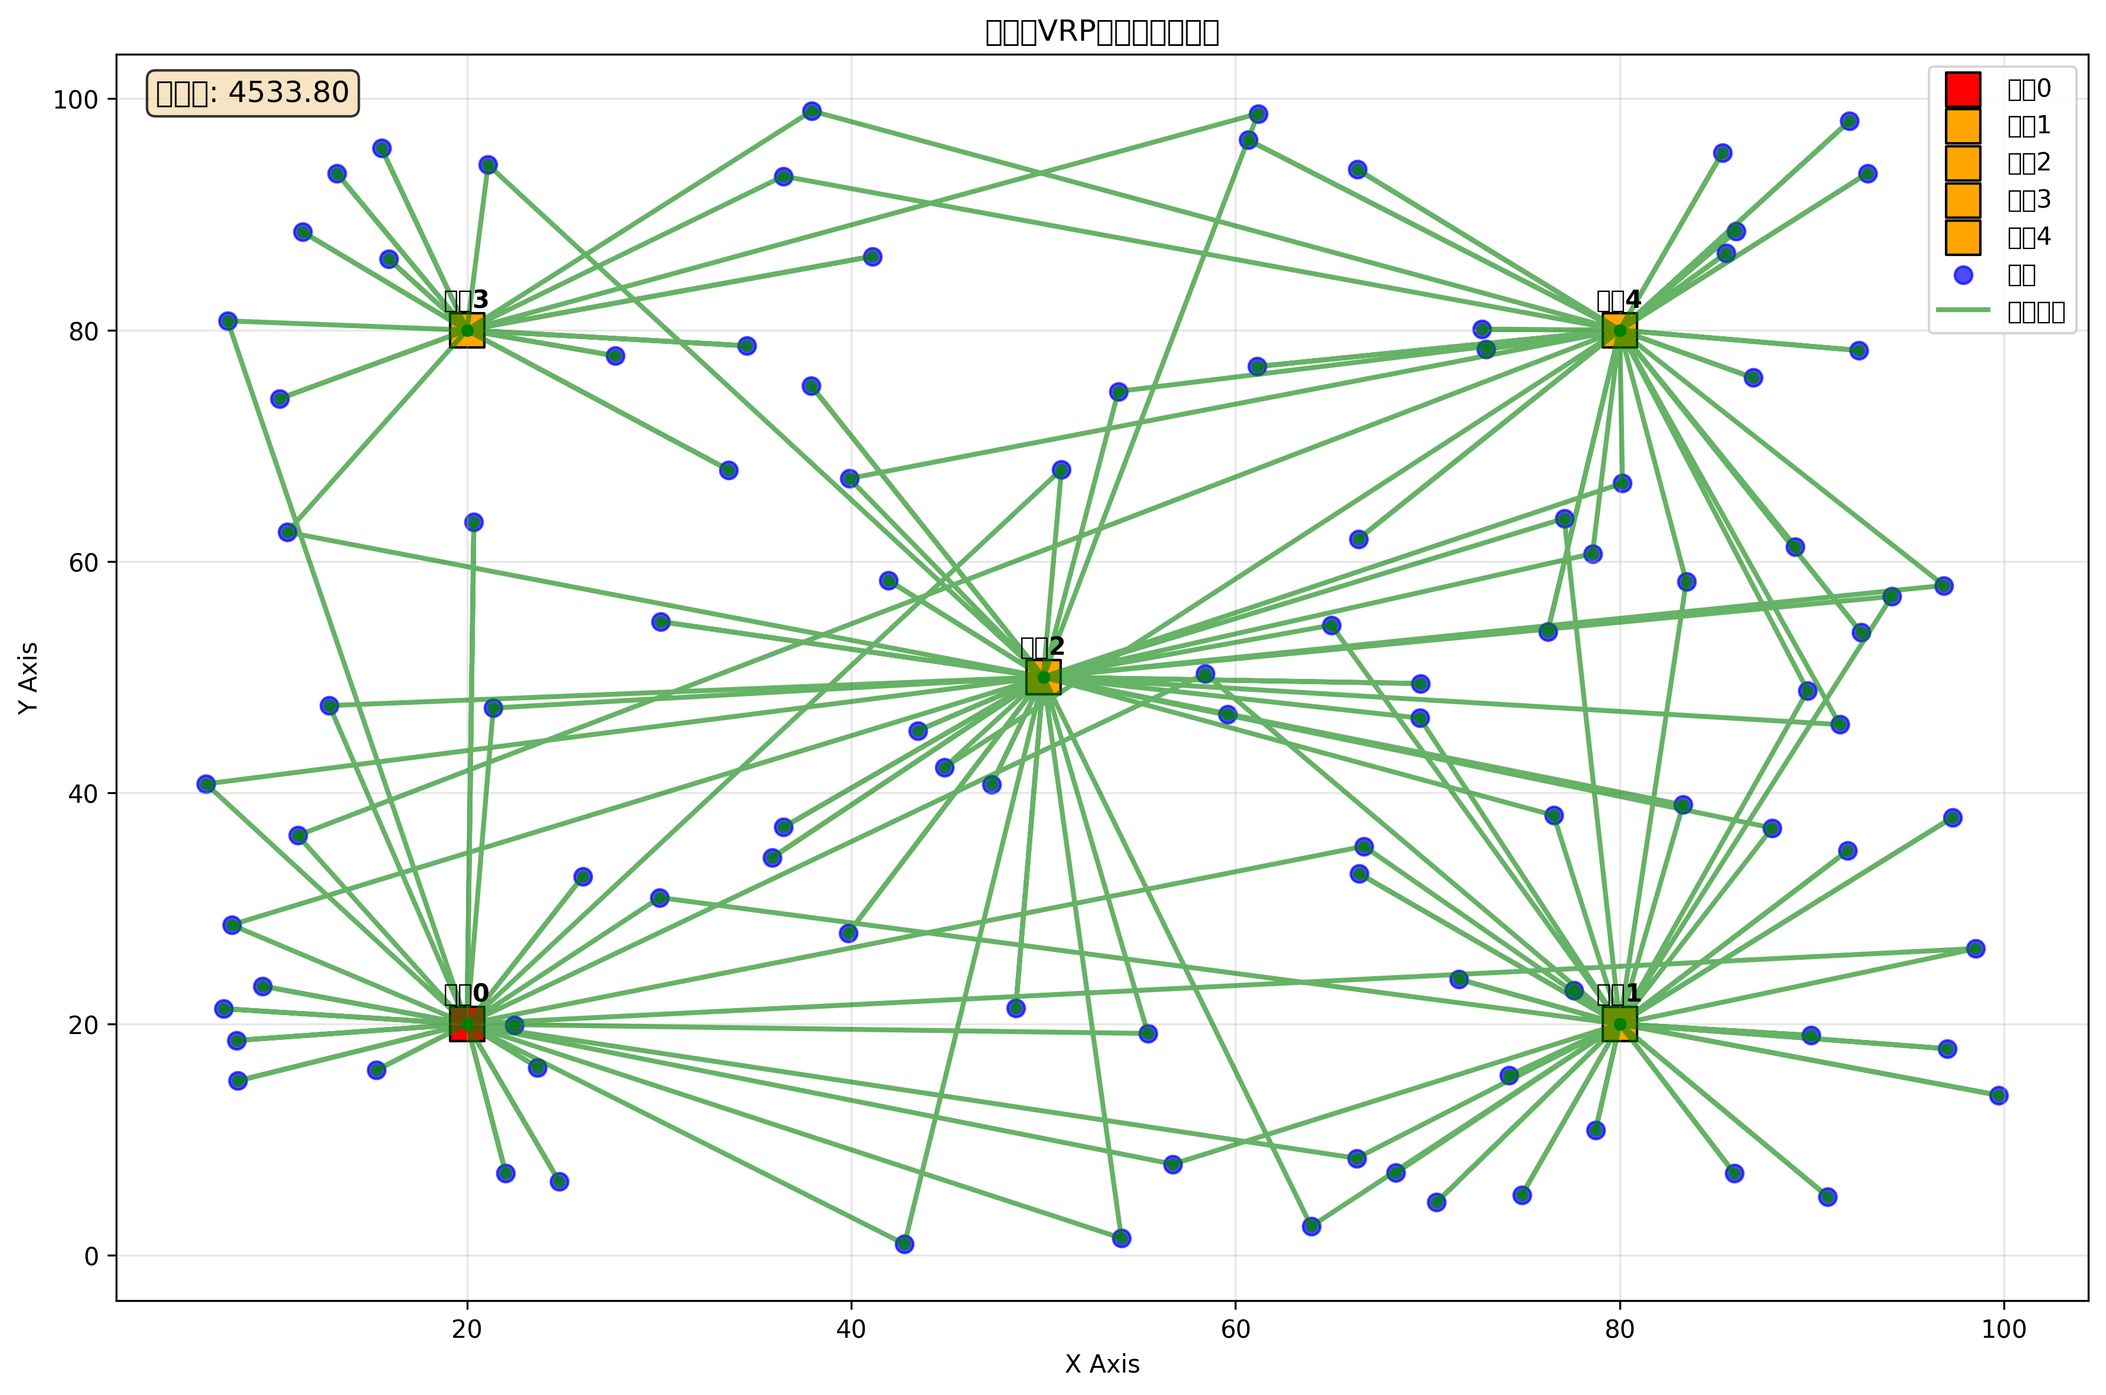
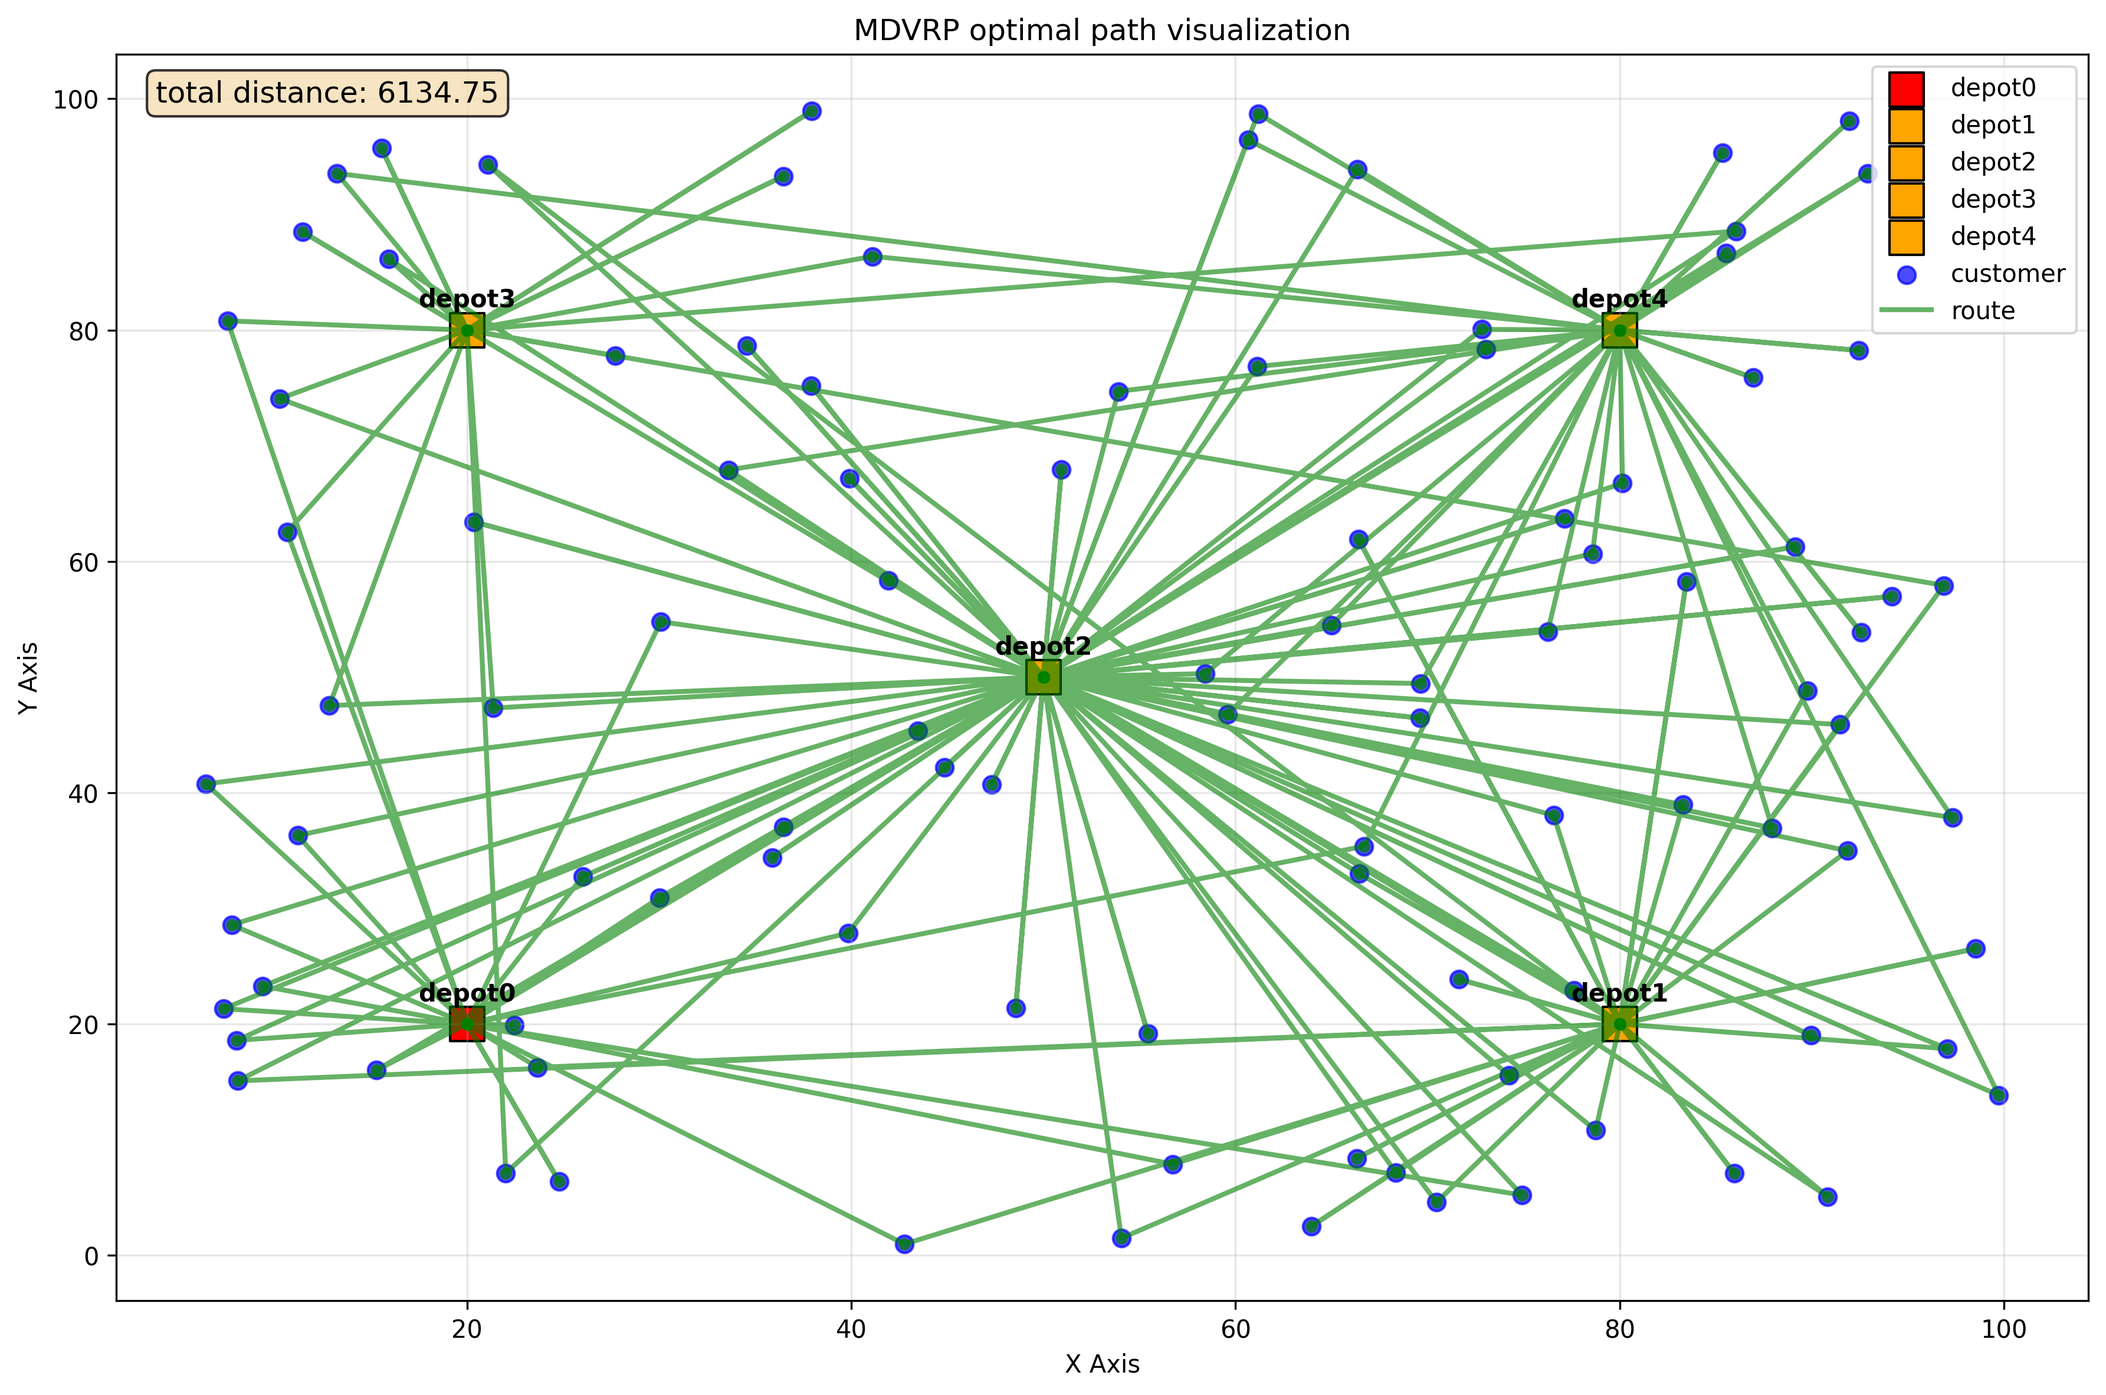
10.15 3：13

diff --git a/ass1.py b/ass1.py
@@ -45,11 +45,8 @@ class VRP_GA_Solver:
         n_customers = len(self.customers)
 
         def create_individual():
-            # 创建客户访问顺序的随机排列
-            customer_order = random.sample(range(n_customers), n_customers)
-            # 为每个客户随机分配仓库（0-4）
-            depot_assignments = [random.randint(0, 4) for _ in range(n_customers)]
-            # 组合成完整个体
+            customer_order = random.sample(range(n_customers), n_customers)     #客户顺序
+            depot_assignments = [random.randint(0, 4) for _ in range(n_customers)]      #仓库顺序
             return customer_order + depot_assignments
 
         self.toolbox.register("individual", tools.initIterate, creator.Individual, create_individual)
@@ -59,14 +56,11 @@ class VRP_GA_Solver:
         self.toolbox.register("mate", self._custom_crossover)
         self.toolbox.register("mutate", self._custom_mutation)
 
+    #适应度计算
     def _evaluate_route(self, individual):
-        """
-        多仓库单车辆VRP适应度评估
-        车辆从depot0出发，访问分配给各个仓库的客户，最后返回depot0
-        """
-        n_customers = len(self.customers)
 
-        # 解析个体：前半部分是客户顺序，后半部分是仓库分配
+        n_customers = len(self.customers)
+        # 一条染色体：前n客户顺序，后n仓库分配
         customer_order = individual[:n_customers]
         depot_assignments = individual[n_customers:]
 
@@ -146,72 +140,72 @@ class VRP_GA_Solver:
 
         return individual,
 
-    def analyze_route(self, individual):
-        """分析多仓库路径"""
-        n_customers = len(self.customers)
-        customer_order = individual[:n_customers]
-        depot_assignments = individual[n_customers:]
-
-        sub_routes = []
-        current_route = []
-        total_distance = 0
-        current_load = 0
-        depot_0_idx = self.depot_indices[0]
-        current_position = depot_0_idx
-
-        print("\n仓库分配情况:")
-        for depot_no in range(5):
-            assigned_customers = [
-                self.customers.iloc[customer_order[i]]['NO']
-                for i in range(n_customers)
-                if depot_assignments[i] == depot_no
-            ]
-            print(f"  仓库{depot_no}: {len(assigned_customers)}个客户 - {assigned_customers}")
-
-        # 从主仓库出发
-        current_route.append(f"仓库0")
-
-        for i, customer_idx in enumerate(customer_order):
-            assigned_depot_no = depot_assignments[customer_idx]
-            assigned_depot_idx = self.depot_indices[assigned_depot_no]
-            customer_no = self.customers.iloc[customer_idx]['NO']
-            customer_demand = self.customers.iloc[customer_idx]['DEMAND']
-
-            if current_load + customer_demand > self.max_capacity:
-                # 返回主仓库
-                total_distance += self.distance_matrix[current_position][depot_0_idx]
-                current_route.append("返回仓库0")
-                sub_routes.append({
-                    'customers': current_route.copy(),
-                    'load': current_load,
-                    'distance': total_distance
-                })
-                current_route = ["仓库0"]
-                current_load = 0
-                current_position = depot_0_idx
-
-            # 前往分配的仓库（如果需要）
-            if current_position != assigned_depot_idx and current_position != customer_idx:
-                total_distance += self.distance_matrix[current_position][assigned_depot_idx]
-                current_route.append(f"经过仓库{assigned_depot_no}")
-                current_position = assigned_depot_idx
-
-            # 访问客户
-            total_distance += self.distance_matrix[current_position][customer_idx]
-            current_load += customer_demand
-            current_route.append(f"客户{customer_no}(需求:{customer_demand})")
-            current_position = customer_idx
-
-        # 最后返回主仓库
-        total_distance += self.distance_matrix[current_position][depot_0_idx]
-        current_route.append("返回仓库0")
-        sub_routes.append({
-            'customers': current_route,
-            'load': current_load,
-            'distance': total_distance
-        })
-
-        return sub_routes, total_distance
+    # def analyze_route(self, individual):
+    #     """分析多仓库路径"""
+    #     n_customers = len(self.customers)
+    #     customer_order = individual[:n_customers]
+    #     depot_assignments = individual[n_customers:]
+    #
+    #     sub_routes = []
+    #     current_route = []
+    #     total_distance = 0
+    #     current_load = 0
+    #     depot_0_idx = self.depot_indices[0]
+    #     current_position = depot_0_idx
+    #
+    #     print("\n仓库分配情况:")
+    #     for depot_no in range(5):
+    #         assigned_customers = [
+    #             self.customers.iloc[customer_order[i]]['NO']
+    #             for i in range(n_customers)
+    #             if depot_assignments[i] == depot_no
+    #         ]
+    #         print(f"  仓库{depot_no}: {len(assigned_customers)}个客户 - {assigned_customers}")
+    #
+    #     # 从主仓库出发
+    #     current_route.append(f"仓库0")
+    #
+    #     for i, customer_idx in enumerate(customer_order):
+    #         assigned_depot_no = depot_assignments[customer_idx]
+    #         assigned_depot_idx = self.depot_indices[assigned_depot_no]
+    #         customer_no = self.customers.iloc[customer_idx]['NO']
+    #         customer_demand = self.customers.iloc[customer_idx]['DEMAND']
+    #
+    #         if current_load + customer_demand > self.max_capacity:
+    #             # 返回主仓库
+    #             total_distance += self.distance_matrix[current_position][depot_0_idx]
+    #             current_route.append("返回仓库0")
+    #             sub_routes.append({
+    #                 'customers': current_route.copy(),
+    #                 'load': current_load,
+    #                 'distance': total_distance
+    #             })
+    #             current_route = ["仓库0"]
+    #             current_load = 0
+    #             current_position = depot_0_idx
+    #
+    #         # 前往分配的仓库（如果需要）
+    #         if current_position != assigned_depot_idx and current_position != customer_idx:
+    #             total_distance += self.distance_matrix[current_position][assigned_depot_idx]
+    #             current_route.append(f"经过仓库{assigned_depot_no}")
+    #             current_position = assigned_depot_idx
+    #
+    #         # 访问客户
+    #         total_distance += self.distance_matrix[current_position][customer_idx]
+    #         current_load += customer_demand
+    #         current_route.append(f"客户{customer_no}(需求:{customer_demand})")
+    #         current_position = customer_idx
+    #
+    #     # 最后返回主仓库
+    #     total_distance += self.distance_matrix[current_position][depot_0_idx]
+    #     current_route.append("返回仓库0")
+    #     sub_routes.append({
+    #         'customers': current_route,
+    #         'load': current_load,
+    #         'distance': total_distance
+    #     })
+    #
+    #     return sub_routes, total_distance
 
     def solve(self):
         print("----开始求解ass1:VRP----")
@@ -311,28 +305,28 @@ def main():
     solver.plot_evolution(fitness_history)
 
     # 打印详细路径信息
-    print("\n" + "=" * 50)
-    print("最优路径详情:")
-    print("=" * 50)
+    # print("\n" + "=" * 50)
+    # print("最优路径详情:")
+    # print("=" * 50)
 
     # 使用分析方法
-    sub_routes, total_distance = solver.analyze_route(best_solution)
+    # sub_routes, total_distance = solver.analyze_route(best_solution)
 
-    print(f"总行驶距离: {total_distance:.2f}")
-    print(f"总行程数: {len(sub_routes)}")
-    print()
+    # print(f"总行驶距离: {total_distance:.2f}")
+    # print(f"总行程数: {len(sub_routes)}")
+    # print()
 
     # 启用详细输出
-    for i, route_info in enumerate(sub_routes, 1):
-        customers = route_info['customers']
-        load = route_info['load']
-        distance = route_info['distance']
-
-        print(f"行程 {i}:")
-        print(f"  路径: {' -> '.join(customers)}")
-        print(f"  负载: {load}")
-        print(f"  距离: {distance:.2f}")
-        print()
+    # for i, route_info in enumerate(sub_routes, 1):
+    #     customers = route_info['customers']
+    #     load = route_info['load']
+    #     distance = route_info['distance']
+    #
+    #     print(f"行程 {i}:")
+    #     print(f"  路径: {' -> '.join(customers)}")
+    #     print(f"  负载: {load}")
+    #     print(f"  距离: {distance:.2f}")
+    #     print()
 
 
 if __name__ == "__main__":

diff --git a/ass2.py b/ass2.py
@@ -43,13 +43,11 @@ class VRP_GA_Solver:
 
         n_customers = len(self.customers)
 
+        #染色体编码方式
         def create_individual():
-            # 创建客户访问顺序的随机排列
-            customer_order = random.sample(range(n_customers), n_customers)
-            # 为每个客户随机分配仓库（0-4）
-            depot_assignments = [random.randint(0, 4) for _ in range(n_customers)]
-            # 组合成完整个体
-            return customer_order + depot_assignments
+            customer_order = random.sample(range(n_customers), n_customers)     #客户顺序
+            depot_assignments = [random.randint(0, 4) for _ in range(n_customers)]  #n个仓库顺序
+            return customer_order + depot_assignments #前n为客户顺序，后n为仓库顺序
 
         self.toolbox.register("individual", tools.initIterate, creator.Individual, create_individual)
         self.toolbox.register("population", tools.initRepeat, list, self.toolbox.individual)
@@ -58,16 +56,11 @@ class VRP_GA_Solver:
         self.toolbox.register("mate", self._custom_crossover)
         self.toolbox.register("mutate", self._custom_mutation)
 
-    def _generate_stochastic_demand(self, mean_demand):
-        """
-        生成随机需求
-        N(mean_demand, 0.2 * mean_demand)，截断为正整数
-        """
-        std_dev = 0.2 * mean_demand
-        # 生成正态分布随机数
-        stochastic_demand = np.random.normal(mean_demand, std_dev)
-        # 截断为正整数
-        stochastic_demand = max(1, int(round(stochastic_demand)))
+    def _generate_demand(self, mean_demand):
+        #-----正态分布范围内生成需求-------
+        std_dev = 0.2 * mean_demand     #标准差
+        random_demand = np.random.normal(mean_demand, std_dev)      # 生成正态分布随机数
+        stochastic_demand = max(1, int(round(random_demand)))       # 截断为正整数
         return stochastic_demand
 
 
@@ -88,7 +81,7 @@ class VRP_GA_Solver:
         for i, customer_idx in enumerate(customer_order):
             # 生成随机需求
             mean_demand = self.customers.iloc[customer_idx]['DEMAND']
-            actual_demand = self._generate_stochastic_demand(mean_demand)
+            actual_demand = self._generate_demand(mean_demand)
 
             assigned_depot_no = depot_assignments[customer_idx]
             assigned_depot_idx = self.depot_indices[assigned_depot_no]
@@ -132,51 +125,6 @@ class VRP_GA_Solver:
             if is_feasible:
                 feasible_count += 1
 
-    # def _evaluate_route(self, individual):
-    #     """
-    #     多仓库单车辆VRP适应度评估
-    #     车辆从depot0出发，访问分配给各个仓库的客户，最后返回depot0
-    #     """
-    #     n_customers = len(self.customers)
-    #
-    #     # 解析个体：前半部分是客户顺序，后半部分是仓库分配
-    #     customer_order = individual[:n_customers]
-    #     depot_assignments = individual[n_customers:]
-    #
-    #     total_distance = 0
-    #     current_load = 0
-    #     depot_0_idx = self.depot_indices[0]  # 主仓库索引
-    #
-    #     # 从主仓库出发
-    #     current_position = depot_0_idx
-    #
-    #     # 按客户顺序访问，但需要根据仓库分配组织路线
-    #     for i, customer_idx in enumerate(customer_order):
-    #         assigned_depot_no = depot_assignments[customer_idx]
-    #         assigned_depot_idx = self.depot_indices[assigned_depot_no]
-    #         customer_demand = self.customers.iloc[customer_idx]['DEMAND']
-    #
-    #         # 检查如果服务这个客户是否会超载
-    #         if current_load + customer_demand > self.max_capacity:
-    #             # 超载，需要返回主仓库清空
-    #             total_distance += self.distance_matrix[current_position][depot_0_idx]
-    #             current_load = 0
-    #             current_position = depot_0_idx
-    #
-    #         # 如果当前不在客户分配的仓库区域，需要先去该仓库
-    #         if current_position != assigned_depot_idx and current_position != customer_idx:
-    #             total_distance += self.distance_matrix[current_position][assigned_depot_idx]
-    #             current_position = assigned_depot_idx
-    #
-    #         # 从分配的仓库到客户
-    #         total_distance += self.distance_matrix[current_position][customer_idx]
-    #         current_load += customer_demand
-    #         current_position = customer_idx
-    #
-    #     # 最后返回主仓库
-    #     total_distance += self.distance_matrix[current_position][depot_0_idx]
-    #
-    #     return total_distance,
 
     def _custom_crossover(self, ind1, ind2):
         """自定义交叉操作"""

diff --git a/visualizer.py b/visualizer.py
@@ -20,14 +20,14 @@ class VRPVisualizer:
             depot_x, depot_y = depot['XCOORD'], depot['YCOORD']
             color = 'red' if depot['NO'] == 0 else 'orange'
             ax.scatter(depot_x, depot_y, c=color, s=200, marker='s',
-                       label=f'仓库{depot["NO"]}', edgecolors='black')
-            ax.text(depot_x, depot_y + 2, f'仓库{depot["NO"]}',
+                       label=f'depot{depot["NO"]}', edgecolors='black')
+            ax.text(depot_x, depot_y + 2, f'depot{depot["NO"]}',
                     ha='center', fontsize=10, weight='bold')
 
         # 绘制客户点
         customer_x = self.customers['XCOORD'].values
         customer_y = self.customers['YCOORD'].values
-        ax.scatter(customer_x, customer_y, c='blue', s=50, alpha=0.7, label='客户')
+        ax.scatter(customer_x, customer_y, c='blue', s=50, alpha=0.7, label='customer')
 
         # 分析路径获取实际路线
         n_customers = len(self.customers)
@@ -63,19 +63,19 @@ class VRPVisualizer:
         route_y.extend([main_depot['YCOORD']])
 
         # 绘制路径线
-        ax.plot(route_x, route_y, 'g-', alpha=0.6, linewidth=2, label='车辆路径')
+        ax.plot(route_x, route_y, 'g-', alpha=0.6, linewidth=2, label='route')
         ax.plot(route_x, route_y, 'go', alpha=0.6, markersize=4)
 
         # 美化图形
         ax.set_xlabel('X Axis')
         ax.set_ylabel('Y Axis')
-        ax.set_title('多仓库VRP最优路径可视化')
+        ax.set_title('MDVRP optimal path visualization')
         ax.legend()
         ax.grid(True, alpha=0.3)
 
         # 添加距离信息
         distance = self._calculate_route_distance(solution)
-        ax.text(0.02, 0.98, f'总距离: {distance:.2f}', transform=ax.transAxes,
+        ax.text(0.02, 0.98, f'total distance: {distance:.2f}', transform=ax.transAxes,
                 fontsize=12, verticalalignment='top',
                 bbox=dict(boxstyle='round', facecolor='wheat', alpha=0.8))
 
@@ -119,12 +119,12 @@ class VRPVisualizer:
         total_distance += self.distance_matrix[current_position][depot_0_idx]
         return total_distance
 
-    def plot_evolution(self, fitness_history, title="遗传算法进化过程"):
+    def plot_evolution(self, fitness_history, title="GA evolution process"):
         """绘制进化过程"""
         plt.figure(figsize=(10, 6))
         plt.plot(fitness_history, 'b-', linewidth=2)
-        plt.xlabel('进化代数')
-        plt.ylabel('最优路径距离')
+        plt.xlabel('Evolution times')
+        plt.ylabel('optimal path distance')
         plt.title(title)
         plt.grid(True, alpha=0.3)
         plt.tight_layout()
